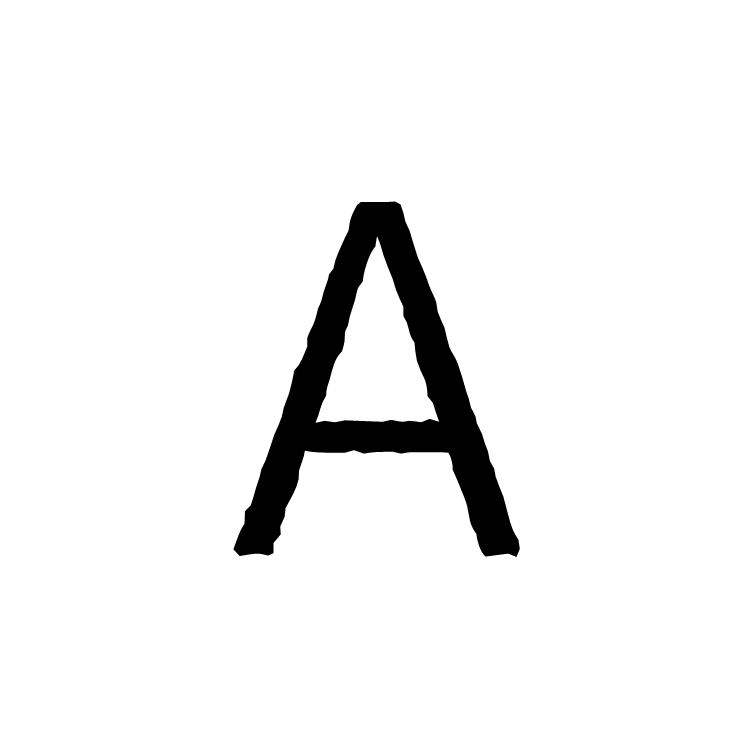
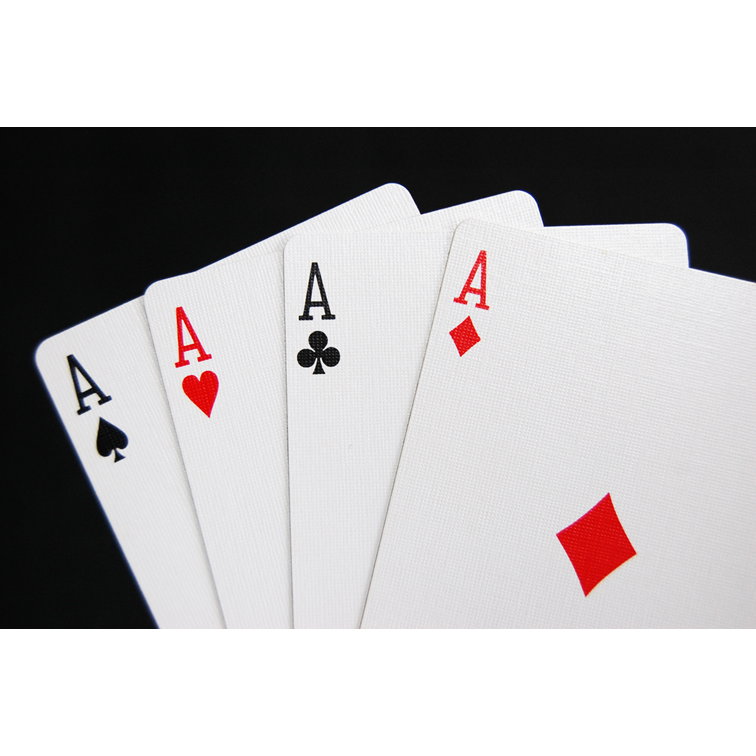
CASE13+

diff --git a/NaguruzoMondo/CASE13/main.js b/NaguruzoMondo/CASE13/main.js
@@ -243,6 +243,10 @@ function mouseReleased() {
             drawArea();
             revealed++;
             saveDorosute();
+            drawArea();
+            saveDorosute();
+            drawArea();
+            saveDorosute();
         }
     }
     

diff --git a/NaguruzoMondo/index.html b/NaguruzoMondo/index.html
@@ -22,6 +22,7 @@
         <li><a href="CASE10/">CASE10</a></li>
         <li><a href="CASE11/">CASE11</a></li>
         <li><a href="CASE12/">CASE12</a></li>
+        <li><a href="CASE13/">CASE13</a></li>
     </ul>
 </body>
 </html>
